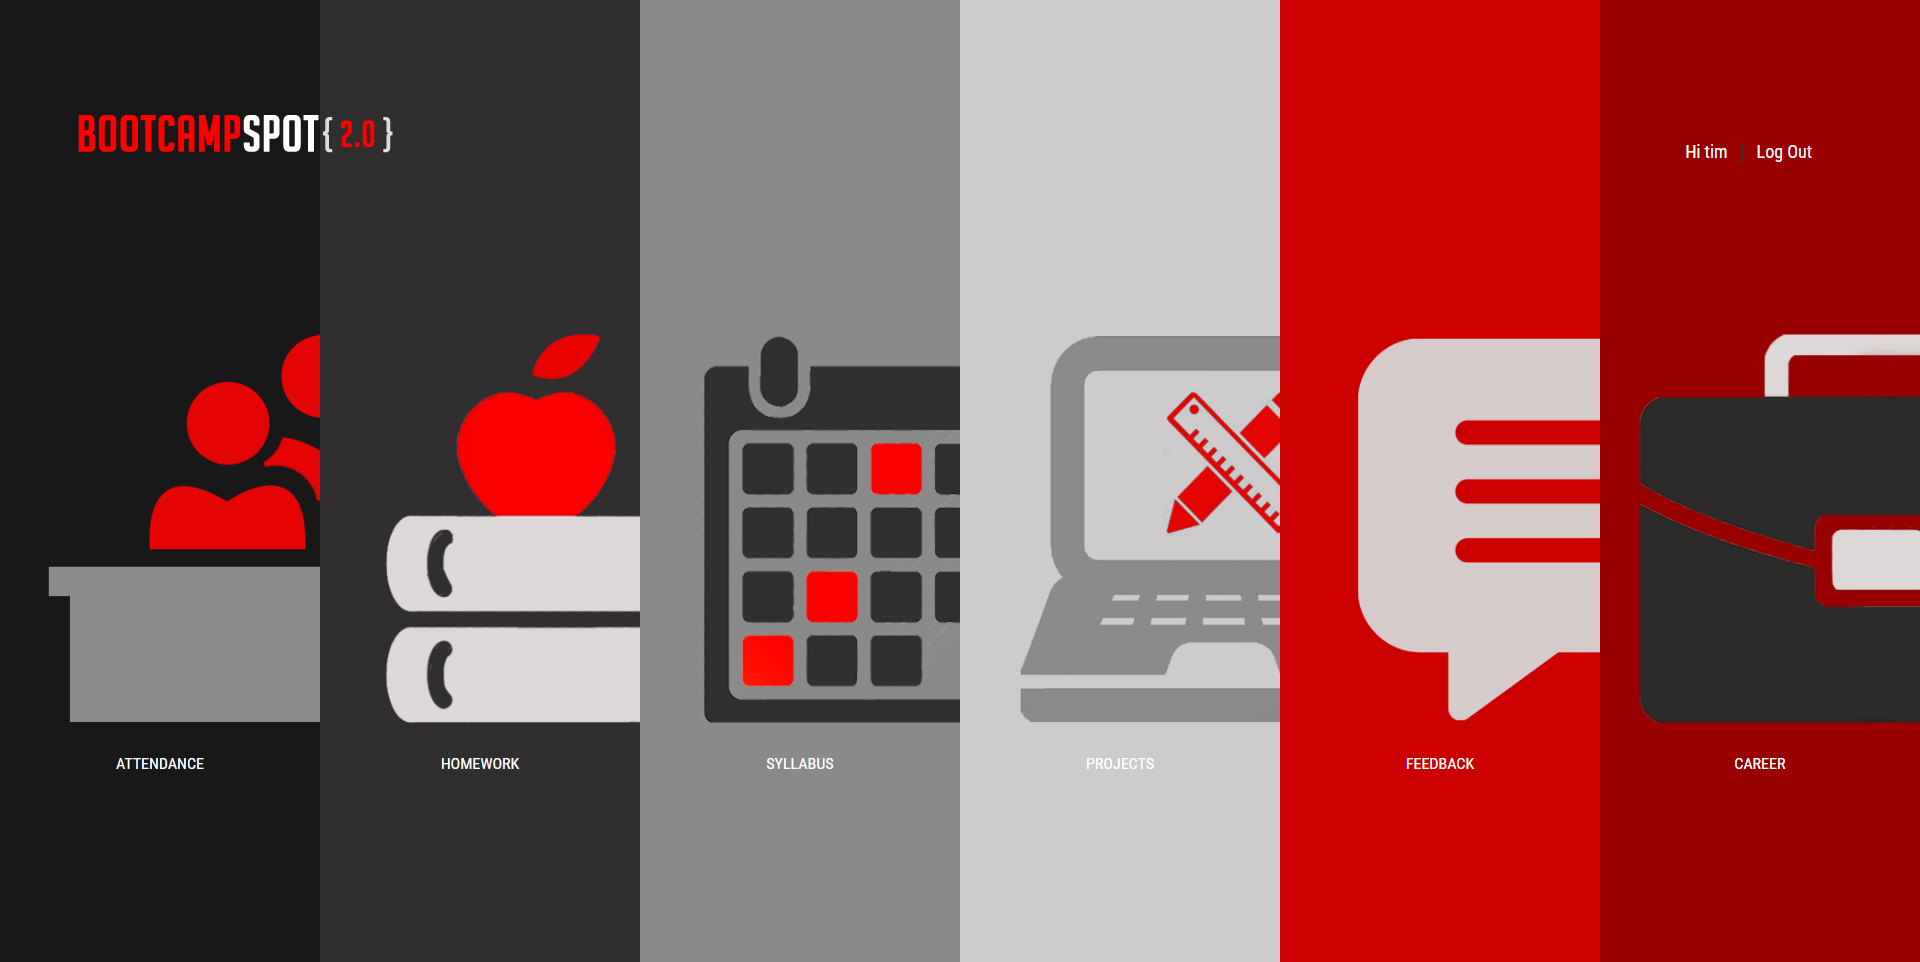
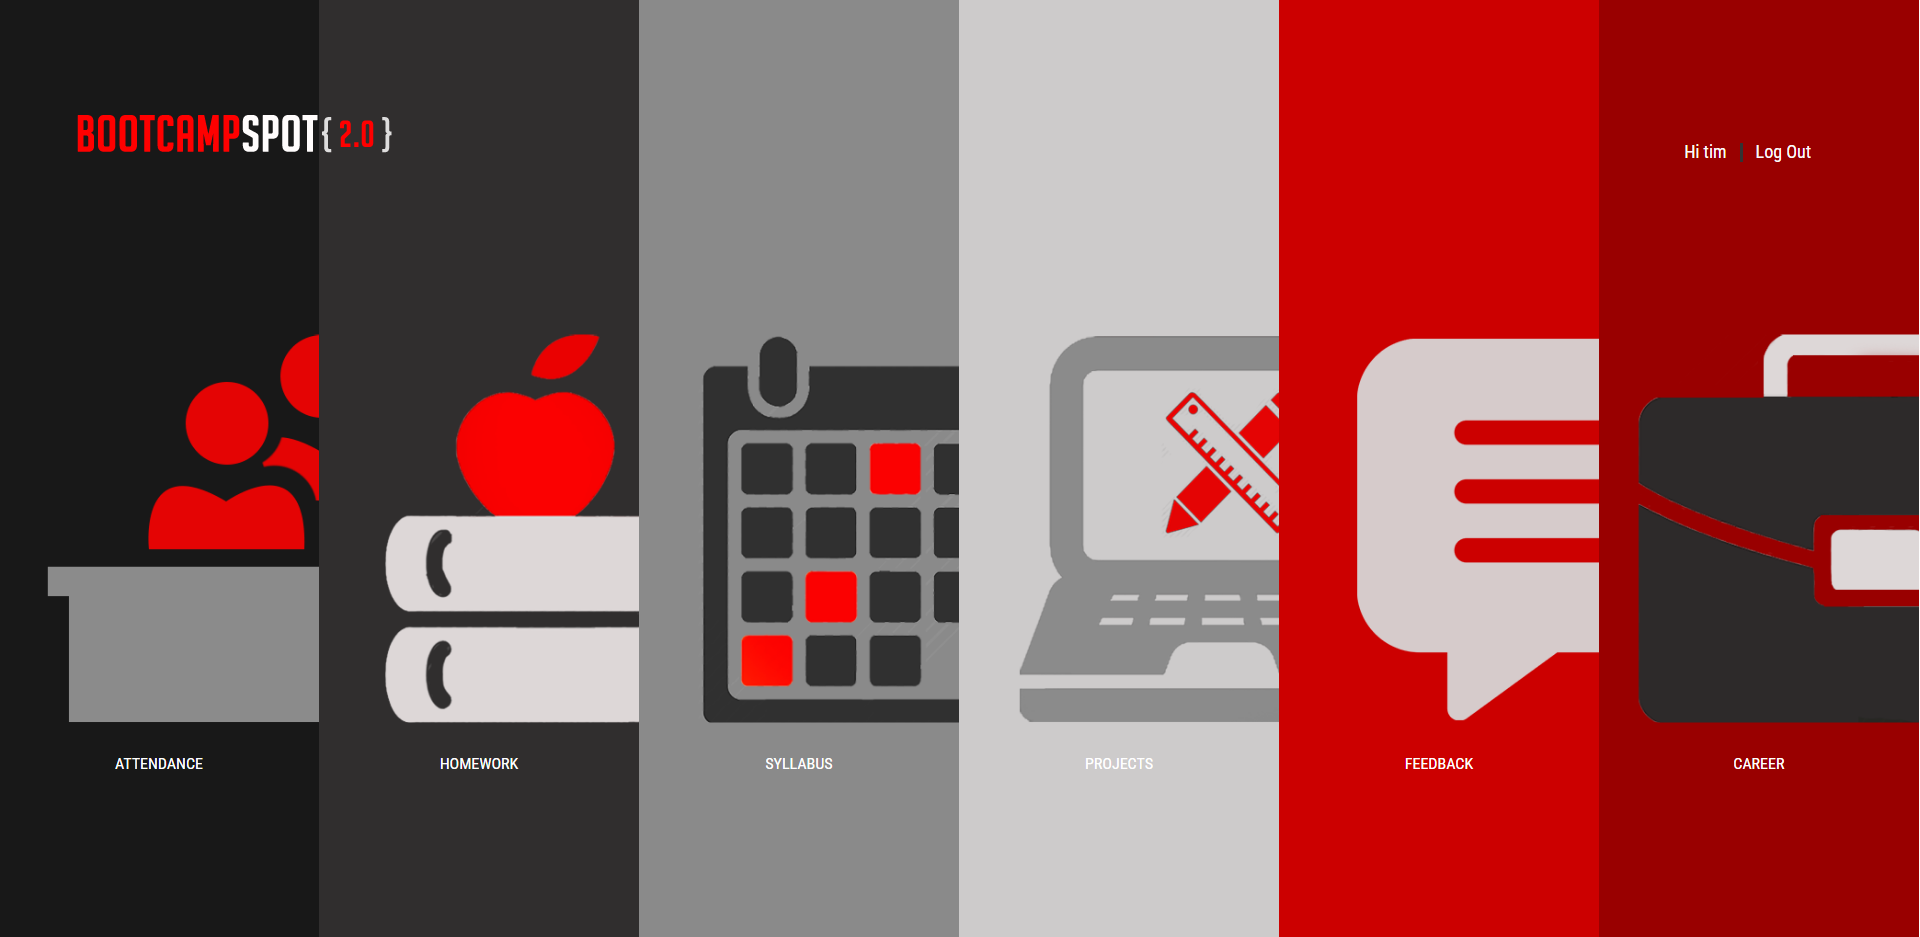
updated all carousel captions and linked the applications to each of the images

diff --git a/index.html b/index.html
@@ -37,8 +37,6 @@
 						<li data-target="#allCarousel" data-slide-to="6"></li>
 						<li data-target="#allCarousel" data-slide-to="7"></li>
 						<li data-target="#allCarousel" data-slide-to="8"></li>
-						<li data-target="#allCarousel" data-slide-to="9"></li>
-						<li data-target="#allCarousel" data-slide-to="10"></li>
 					</ol>
 
 					<!-- Wrapper for slides -->
@@ -46,9 +44,11 @@
 						<div class="item active">
 							<a href="http://bootcampspot2.herokuapp.com/">
 								<img class="images" src="./images/BootcampSpot2.0.png" alt="...">
-								<div class="carousel-caption" id="betFuture">
-									<h3>BootcampSpot 2.0</h3>
-									<p>Image 0</p>
+								<div class="carousel-caption" id="bootcampspot">
+									<h3 class='carouselTitle'>BootcampSpot 2.0</h3>
+									<p>
+										A student hub designed to provide easy access and communication between students, teachers, and administrators. Designed using using github authentication, slack, sequel databases, and react.
+									</p>
 								</div>
 							</a>
 						</div>
@@ -57,96 +57,96 @@
 							<a href="https://betthefuture.herokuapp.com/">
 								<img class="images" src="./images/Betfuture1.png" alt="...">
 								<div class="carousel-caption" id="betFuture">
-									<h3>Bet The Future</h3>
-									<p>Image 1</p>
+									<h3 class='carouselTitle'>Bet The Future</h3>
+									<p>
+										A web application which allows users to make small bets with friends. Users can make a bet, set the stakes, invite friends, and set a referee to decide the winner.
+									</p>
 								</div>
 							</a>	
 						</div>
 
 						<div class="item">
-<a href="https://betthefuture.herokuapp.com/">
-							<img class="images" src="./images/SocietyPin.png" alt="...">
-							<div class="carousel-caption" id="societyPin">
-								<h3>Society Pin</h3>
-								<p>Image 2</p>
-							</div>
+							<a href="https://societypin.herokuapp.com/">
+								<img class="images" src="./images/SocietyPin.png" alt="...">
+								<div class="carousel-caption" id="societyPin">
+									<h3 class='carouselTitle' id='societyPinTitle'>Society Pin</h3>
+									<p>
+										A web application that allows users to pin images to a map. </br>Allows businesses to connect with customers by posting </br> events, crowdsourcing, and much more!
+									</p>
+								</div>
 							</a>
 						</div>
 
 						<div class="item">
-<a href="https://betthefuture.herokuapp.com/">
-							<img class="images" src="./images/mongoArticle.png" alt="...">
-							<div class="carousel-caption" id="mongoArticle">
-								<h3>NYT Articles Scrape</h3>
-								<p>Image 3</p>
-							</div>
+							<a href="https://ehatz-mongoarticle.herokuapp.com/">
+								<img class="images" src="./images/mongoArticle.png" alt="...">
+								<div class="carousel-caption" id="mongoArticle">
+									<h3 class='carouselTitle'>Reddit Webdev Scrape</h3>
+									<p>
+										A web application that scrapes the webdev subreddit for information and stores posts and comments using mongo database.
+									</p>
+								</div>
 							</a>
 						</div>
 
 						<div class="item">
-<a href="https://betthefuture.herokuapp.com/">
-							<img class="images" src="./images/animaltastic.png" alt="...">
-							<div class="carousel-caption" id="animaltastic">
-								<h3>Animaltastic</h3>
-								<p>Image 3</p>
-							</div>
+							<a href="https://ehatz-animaltastic.herokuapp.com/">
+								<img class="images" src="./images/animaltastic.png" alt="...">
+								<div class="carousel-caption" id="animaltastic">
+									<h3 class='carouselTitle'>Animaltastic</h3>
+									<p>
+										Using the giphy api, this application allows users to search for any giphs and returns the search result as a click to play list.
+									</p>
+								</div>
 							</a>
 						</div>
 
 						<div class="item">
-							<a href="https://betthefuture.herokuapp.com/">
+							<a href="https://ehatz-hangman.herokuapp.com/">
 								<img class="images" src="./images/Hangman1.png" alt="...">
 								<div class="carousel-caption" id="hangman">
-									<h3>Game of Thrones Hangman</h3>
-									<p>Image 4</p>
+									<h3 class='carouselTitle'>Game of Thrones Hangman</h3>
+									<p>
+										I simple Game of Thrones themed hangman application. Watch out for spoilers though, all of the characters in this game are dead.
+									</p>
 								</div>
 							</a>
 						</div>
 
 						<div class="item">
-							<a href="https://betthefuture.herokuapp.com/">
+							<a href="https://ehatz-triviagame.herokuapp.com/">
 								<img class="images" src="./images/TriviaGame1.png" alt="...">
 								<div class="carousel-caption" id="triviaGame">
-									<h3>Troll Trivia Game</h3>
-									<p>Image 5</p>
+									<h3 class='carouselTitle'>Troll Trivia Game</h3>
+									<p>
+										A trivia game styled after the popular Impossible Quiz, users can explore this ridiculously fun and tricky game to try to get a perfect score.
+									</p>
 								</div>
 							</a>
 						</div>
 
 						<div class="item">
-							<a href="https://betthefuture.herokuapp.com/">
-								<img class="images" src="./images/starwars.png" alt="...">
-								<div class="carousel-caption" id="starwars">
-									<h3>Star Wars RPG</h3>
-									<p>Image 5</p>
-								</div>
-							</a>
-						</div>
-
-						<div class="item">
-							<a href="https://betthefuture.herokuapp.com/">
+							<a href="https://github.com/eHatz/Bamazon">
 								<img class="images" src="./images/Bamazon.png" alt="...">
 								<div class="carousel-caption" id="bamazon">
-									<h3>Bamazon</h3>
-									<p>Image 5</p>
+									<h3 class='carouselTitle'>Bamazon</h3>
+									<p>
+										A stock management node application which allows customers to buy listed items and for managers to update or delete the stock of any items.
+									</p>
 								</div>
 							</a>
 						</div>
 
 						<div class="item">
-							<img class="images" src="./images/RPS.png" alt="...">
-							<div class="carousel-caption" id="rps">
-								<h3>Rock Paper Scissors</h3>
-								<p>Image 5</p>
-							</div>
-						</div>
-
-						<div class="item">
-							<img class="images" src="./images/hangman-node.png" alt="...">
-							<div class="carousel-caption" id="hangmanNode">
-								<h3>Node Hangman</h3>
-								<p>Image 5</p>
-							</div>
+							<a href="https://github.com/eHatz/RPS">
+								<img class="images" src="./images/RPS.png" alt="...">
+								<div class="carousel-caption" id="rps">
+									<h3 class='carouselTitle' id='rpsTitle'>Rock Paper Scissors</h3>
+									<p>
+										A multiplayer rock paper scissors application which uses firebase to update real time so players can chat and play.
+									</p>
+								</div>
+							</a>
 						</div>
 					</div>
 

diff --git a/css/style.css b/css/style.css
@@ -67,3 +67,29 @@ h2 {
 	border-color: #ccc;
 	border-width: 3px;
 }
+
+.carousel-caption {
+	font-size: 20px;
+
+	font-weight: bold;
+}
+.carouselTitle {
+	text-decoration: underline;
+	font-weight: bolder;
+}
+#betFuture {
+	color: black;
+}
+
+#societyPin {
+	color: black;
+}
+#societyPinTitle {
+	color: white;
+}
+#mongoArticle {
+	color: black;
+}
+#rpsTitle {
+	color: black;
+}
